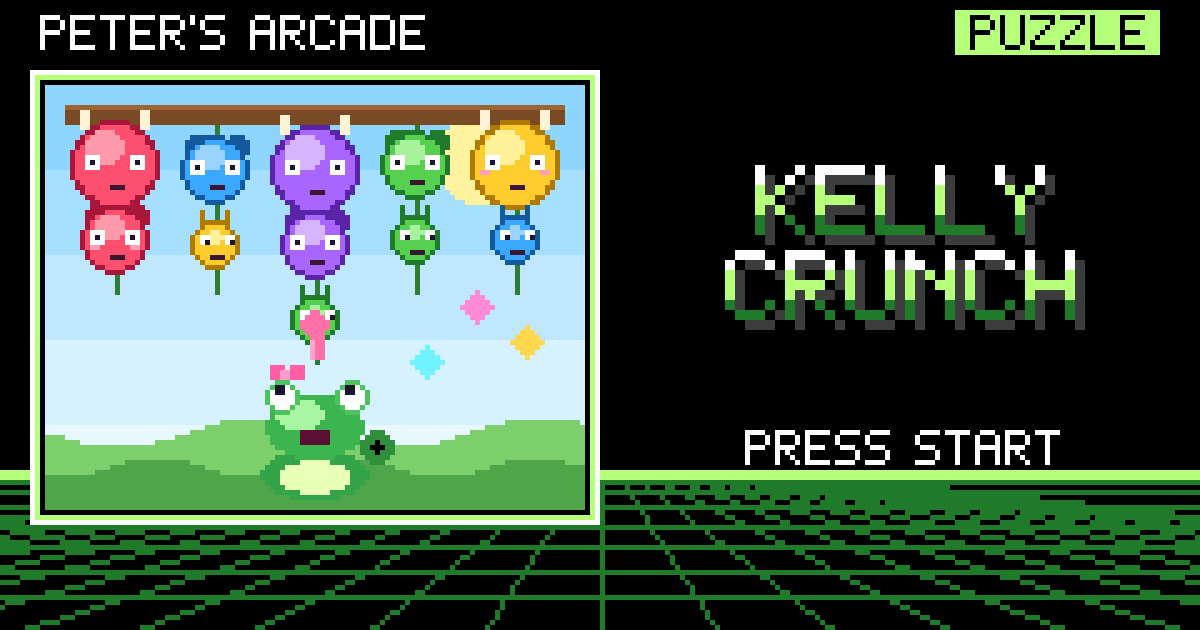
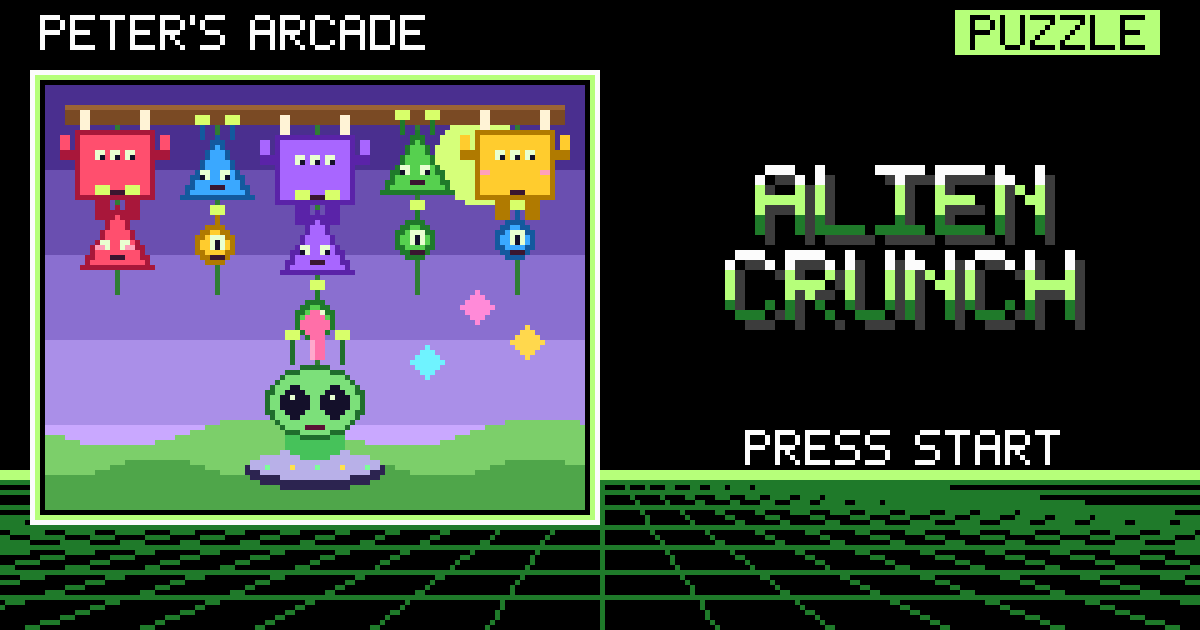
Alien Crunch: rename Kelly Crunch, alien creatures with distinct shapes per size, quieter music

Changed region(s): [[0.0308, 0.1206, 0.4933, 0.8143], [0.6167, 0.2413, 0.8942, 0.3921]]

diff --git a/index.html b/index.html
@@ -1,7 +1,7 @@
 <!DOCTYPE html><html lang="en"><head><meta charset="utf-8"><meta name="viewport" content="width=device-width,initial-scale=1,maximum-scale=1,user-scalable=no,viewport-fit=cover">
-<title>Kelly Crunch</title><!--og--><meta name="description" content="Help Kelly the chameleon feed little critters to bigger ones until they POP! Chain reactions, food chains, bombs, spiky critters and gem rocks. Endless mode + 30 puzzles."><meta property="og:type" content="website"><meta property="og:site_name" content="Peter&#x27;s Arcade"><meta property="og:title" content="Kelly Crunch"><meta property="og:description" content="Help Kelly the chameleon feed little critters to bigger ones until they POP! Chain reactions, food chains, bombs, spiky critters and gem rocks. Endless mode + 30 puzzles."><meta property="og:url" content="https://ploug76.github.io/kelly-crunch/"><meta property="og:image" content="https://ploug76.github.io/kelly-crunch/cover.png"><meta property="og:image:secure_url" content="https://ploug76.github.io/kelly-crunch/cover.png"><meta property="og:image:type" content="image/png"><meta property="og:image:width" content="1200"><meta property="og:image:height" content="630"><meta property="og:image:alt" content="Kelly Crunch 8-bit game box cover"><meta name="twitter:card" content="summary_large_image"><meta name="twitter:title" content="Kelly Crunch"><meta name="twitter:description" content="Help Kelly the chameleon feed little critters to bigger ones until they POP! Chain reactions, food chains, bombs, spiky critters and gem rocks. Endless mode + 30 puzzles."><meta name="twitter:image" content="https://ploug76.github.io/kelly-crunch/cover.png"><!--/og-->
+<title>Alien Crunch</title><!--og--><meta name="description" content="Pilot your little UFO alien and feed small aliens to bigger ones until they POP! Chain reactions, food chains, bombs, spiky critters and gem rocks. Endless mode + 30 puzzles."><meta property="og:type" content="website"><meta property="og:site_name" content="Peter&#x27;s Arcade"><meta property="og:title" content="Alien Crunch"><meta property="og:description" content="Pilot your little UFO alien and feed small aliens to bigger ones until they POP! Chain reactions, food chains, bombs, spiky critters and gem rocks. Endless mode + 30 puzzles."><meta property="og:url" content="https://ploug76.github.io/kelly-crunch/"><meta property="og:image" content="https://ploug76.github.io/kelly-crunch/cover.png"><meta property="og:image:secure_url" content="https://ploug76.github.io/kelly-crunch/cover.png"><meta property="og:image:type" content="image/png"><meta property="og:image:width" content="1200"><meta property="og:image:height" content="630"><meta property="og:image:alt" content="Alien Crunch 8-bit game box cover"><meta name="twitter:card" content="summary_large_image"><meta name="twitter:title" content="Alien Crunch"><meta name="twitter:description" content="Pilot your little UFO alien and feed small aliens to bigger ones until they POP! Chain reactions, food chains, bombs, spiky critters and gem rocks. Endless mode + 30 puzzles."><meta name="twitter:image" content="https://ploug76.github.io/kelly-crunch/cover.png"><!--/og-->
 <meta name="theme-color" content="#2fae4a"><link rel="manifest" href="manifest.json"><link rel="icon" href="icon-192.png"><link rel="apple-touch-icon" href="icon-192.png">
-<meta name="apple-mobile-web-app-capable" content="yes"><meta name="mobile-web-app-capable" content="yes"><meta name="apple-mobile-web-app-status-bar-style" content="black-translucent"><meta name="apple-mobile-web-app-title" content="Kelly Crunch">
+<meta name="apple-mobile-web-app-capable" content="yes"><meta name="mobile-web-app-capable" content="yes"><meta name="apple-mobile-web-app-status-bar-style" content="black-translucent"><meta name="apple-mobile-web-app-title" content="Alien Crunch">
 <style>html,body{margin:0;height:100%;overflow:hidden;background:#1d1240;touch-action:none;-webkit-user-select:none;user-select:none;-webkit-touch-callout:none;overscroll-behavior:none}
 canvas{position:fixed;left:0;top:0;display:block;touch-action:none}#sp{position:fixed;visibility:hidden;pointer-events:none;padding:env(safe-area-inset-top) env(safe-area-inset-right) env(safe-area-inset-bottom) env(safe-area-inset-left)}</style><!--sample--><script>(()=>{try{const R=location.pathname.split('/')[1]||'',K='pa_sample:'+R,q=new URLSearchParams(location.search),v=q.get('sample');
 if(v==='0'||(!v&&/\/peters-arcade\//.test(document.referrer)))sessionStorage.removeItem(K);
@@ -10,7 +10,7 @@ const s=sessionStorage.getItem(K);window.__SAMPLE=s||null;if(!s)return;
 document.querySelectorAll('link[rel=manifest]').forEach(l=>l.remove());
 if('serviceWorker' in navigator){try{navigator.serviceWorker.register=()=>new Promise(()=>{})}catch(e){}}
 addEventListener('beforeinstallprompt',e=>{e.preventDefault();e.stopImmediatePropagation()},true)}catch(e){}})()</script><!--/sample--></head><body>
-<canvas id="cv" aria-label="Kelly Crunch game"></canvas><div id="sp"></div>
+<canvas id="cv" aria-label="Alien Crunch game"></canvas><div id="sp"></div>
 <script>window.addEventListener('error',e=>{(window.__ERR=window.__ERR||[]).push(String(e.message))});
 // ===== Kelly Crunch rules engine (shared by game, solver, tests) =====
 // Board: array of columns; each column is an array top->bottom of cells.
@@ -107,7 +107,7 @@ const AU={ctx:null,m:null,sg:null,mg:null,nb:null,
   this.m=c.createGain();this.m.connect(c.destination);this.sg=c.createGain();this.sg.connect(this.m);this.mg=c.createGain();this.mg.connect(this.m);
   const comp=c.createDynamicsCompressor();this.m.disconnect();this.m.connect(comp);comp.connect(c.destination);
   const n=c.createBuffer(1,c.sampleRate*1,c.sampleRate),d=n.getChannelData(0);for(let i=0;i<d.length;i++)d[i]=Math.random()*2-1;this.nb=n;this.apply()}catch(e){this.ctx=null}},
- apply(){if(!this.ctx)return;const t=this.ctx.currentTime;this.m.gain.setTargetAtTime(save.muted?0:1,t,.02);this.sg.gain.setTargetAtTime(save.sfx?.75:0,t,.02);this.mg.gain.setTargetAtTime(save.music&&!paused?.30:0,t,.05)},
+ apply(){if(!this.ctx)return;const t=this.ctx.currentTime;this.m.gain.setTargetAtTime(save.muted?0:1,t,.02);this.sg.gain.setTargetAtTime(save.sfx?.75:0,t,.02);this.mg.gain.setTargetAtTime(save.music&&!paused?.14:0,t,.05)},
  unlock(){this.init();if(this.ctx&&this.ctx.state!=='running'&&!hidden)this.ctx.resume().catch(()=>{})},
  tone(f,d,type='square',v=.2,f2=null,dl=0,dest=null){const c=this.ctx;if(!c)return;const t=c.currentTime+dl,o=c.createOscillator(),g=c.createGain();o.type=type;o.frequency.setValueAtTime(f,t);if(f2)o.frequency.exponentialRampToValueAtTime(Math.max(20,f2),t+d);
   g.gain.setValueAtTime(0.0001,t);g.gain.exponentialRampToValueAtTime(v,t+.006);g.gain.exponentialRampToValueAtTime(.0001,t+d);o.connect(g);g.connect(dest||this.sg);o.start(t);o.stop(t+d+.03)},
@@ -161,9 +161,9 @@ const MUS={step:0,next:0,bpm:116,on:false,track:'play',
 const COLORS=[{n:'Berry',b:'#ff4f6e',l:'#ff9aac',d:'#a8173a'},{n:'Sky',b:'#3aa8ff',l:'#9ad3ff',d:'#13599e'},{n:'Lime',b:'#56d04f',l:'#a8f29c',d:'#1f7a2a'},{n:'Sunny',b:'#ffcc2e',l:'#fff09a',d:'#b07a00'},{n:'Grape',b:'#a866ff',l:'#d6b4ff',d:'#5a23a8'}];
 const SIZES=['Nibbler','Muncher','Chomper'];
 const MAXR_E=10,MAXR_P=9,NC_E=7;
-const COMBO_WORDS=['','Crunchy!','Double Crunch!','Triple Crunch!','Super Crunch!','Mega Munch!','Ultra Munch!','KELLY CRUNCH!!'];
+const COMBO_WORDS=['','Crunchy!','Double Crunch!','Triple Crunch!','Super Crunch!','Mega Munch!','Ultra Munch!','ALIEN CRUNCH!!'];
 const PUZ=PUZZLES; // generated + verified by solver (see build)
-const TIPS={0:'Swipe to move Kelly. Tap to grab the bottom critter, tap again to spit it!',1:'Feed a smaller critter to the next size up: Nibbler ➜ Muncher ➜ Chomper.',2:'A critter that has eaten is FULL (puffy cheeks). Feed it again and it POPS!',3:'Feed a FULL critter to a bigger one for a Food Chain pop!',4:'Pops spread to touching critters of the same size AND color.',10:'BOMBS eat any critter. Feed a bomb twice to blast everything around it!',15:'Never grab SPIKY critters! Pop something next to them to clear them.',20:'Gem rocks can’t be grabbed. Pop a critter beside one for a gem shower!'};
+const TIPS={0:'Swipe to move your alien. Tap to grab the bottom critter, tap again to spit it!',1:'Feed a smaller critter to the next size up: Blob ➜ Triangle ➜ Horned brute.',2:'A critter that has eaten is FULL (puffy cheeks). Feed it again and it POPS!',3:'Feed a FULL critter to a bigger one for a Food Chain pop!',4:'Pops spread to touching critters of the same size AND color.',10:'BOMBS eat any critter. Feed a bomb twice to blast everything around it!',15:'Never grab SPIKY critters! Pop something next to them to clear them.',20:'Gem rocks can’t be grabbed. Pop a critter beside one for a gem shower!'};
 let V=new Map(); // visual state per cell id
 function newVis(cell,x,y){const v={x,y,vx:0,vy:0,sx:1,sy:1,svx:0,svy:0,ph:Math.random()*6.28,open:0,blink:rand(1,4),look:0,shiver:0,eaten:null,bump:0};V.set(cell.id,v);return v}
 function geo(){const s=SB();const NC=G.NC,MAXR=G.MAXR;const tip=G.mode==='puzzle'?44:0;const top=s.t+122+tip;const bottomPad=106;
@@ -172,7 +172,7 @@ function geo(){const s=SB();const NC=G.NC,MAXR=G.MAXR;const tip=G.mode==='puzzle
  return{x0,colW,top,rowH,dangerY,base,kY:Math.min(s.b-14,dangerY+bottomPad-6),s,tip}}
 let GE=null;
 const colX=c=>GE.x0+GE.colW*(c+.5),rowY=r=>GE.top+GE.rowH*(r+.5);
-const radius=cell=>cell.k==='c'?GE.base*[.30,.39,.48][cell.s]:GE.base*.40;
+const radius=cell=>cell.k==='c'?GE.base*[.23,.36,.47][cell.s]:GE.base*.40;
 function startGame(mode,pi=0){AU.unlock();V=new Map();parts.length=0;gems.length=0;labels.length=0;
  G={mode,pi,NC:NC_E,MAXR:MAXR_E,B:[],kelly:{col:3,x:0,vx:0,stun:0,mouth:0,emo:'',emoT:0,squash:0,bob:0,look:0,blinkT:2,hop:0},hold:null,tg:null,flights:[],res:null,queue:[],
   score:0,shown:0,level:1,gemsN:0,need:25,pushT:0,burps:1,chainMax:0,popped:0,moves:0,limit:0,par:0,undo:[],t:0,panel:null,panelT:0,shake:0,hitstop:0,hint:null,warnT:0,danger:0,newBest:false,ann:null,tipT:0,overT:0,lastPush:0,clearBonus:0};
@@ -327,21 +327,39 @@ function eyes(R,ex,ey,er,v,kind){const K=G?G.kelly:null;const look=K?clamp((K.x-
   if(bl){X.strokeStyle='#222';X.lineWidth=er*.28;X.beginPath();X.moveTo(x-er*.7,y);X.quadraticCurveTo(x,y+er*.5,x+er*.7,y);X.stroke();continue}
   const px=x+look*er*.38,py=y+er*.32;X.fillStyle='#1d1530';X.beginPath();X.arc(px,py,er*.52,0,6.283);X.fill();X.fillStyle='#fff';X.beginPath();X.arc(px-er*.18,py-er*.2,er*.18,0,6.283);X.fill()}
  if(kind==='angry'){X.strokeStyle='#2a1c38';X.lineWidth=er*.35;X.lineCap='round';X.beginPath();X.moveTo(-ex-er*.8,ey-er*1.2);X.lineTo(-ex+er*.7,ey-er*.6);X.moveTo(ex+er*.8,ey-er*1.2);X.lineTo(ex-er*.7,ey-er*.6);X.stroke()}}
+function alienEyes(P,er,v,kind){const K=G?G.kelly:null;const look=K?clamp((K.x-v.x)/160,-1,1):Math.sin(RT+v.ph)*.6;const bl=v.blink<.12;
+ for(const [x,y] of P){X.fillStyle='#e9ffd0';X.beginPath();X.ellipse(x,y,er*1.05,er*1.2,0,0,6.283);X.fill();X.strokeStyle='rgba(0,0,0,.6)';X.lineWidth=Math.max(1,er*.14);X.stroke();
+  if(bl){X.strokeStyle='#222';X.lineWidth=er*.28;X.beginPath();X.moveTo(x-er*.7,y);X.quadraticCurveTo(x,y+er*.5,x+er*.7,y);X.stroke();continue}
+  const px=x+look*er*.3,py=y+er*.2;X.fillStyle='#14102a';X.beginPath();X.ellipse(px,py,er*.62,er*.8,0,0,6.283);X.fill();X.fillStyle='#7dff9a';X.beginPath();X.ellipse(px,py,er*.18,er*.5,0,0,6.283);X.fill();X.fillStyle='#fff';X.beginPath();X.arc(px-er*.25,py-er*.35,er*.18,0,6.283);X.fill()}
+ if(kind==='angry'){X.strokeStyle='#2a1c38';X.lineWidth=er*.35;X.lineCap='round';const a=P[0],b=P[P.length-1];X.beginPath();X.moveTo(a[0]-er*.9,a[1]-er*1.5);X.lineTo(a[0]+er*.6,a[1]-er*1.0);X.moveTo(b[0]+er*.9,b[1]-er*1.5);X.lineTo(b[0]-er*.6,b[1]-er*1.0);X.stroke()}}
 function drawCritter(cell,x,y,R,v,alpha=1){X.save();X.translate(x,y);const wob=cell.f?Math.sin(RT*9+v.ph)*.05:0;X.scale(v.sx*(1+wob),v.sy*(1-wob));if(alpha<1)X.globalAlpha=alpha;
  const lw=Math.max(1.8,R*.09);
  if(cell.k==='c'){const C=COLORS[cell.c],s=cell.s,full=cell.f;const RR=R*(full?1.08:1);
-  // ears / horns / antennae
-  X.lineWidth=lw;X.strokeStyle=C.d;
-  if(s===0){X.lineCap='round';for(const sx of [-1,1]){X.beginPath();X.moveTo(sx*RR*.3,-RR*.8);X.quadraticCurveTo(sx*RR*.5,-RR*1.4,sx*RR*.75+Math.sin(RT*4+v.ph)*2,-RR*1.45);X.stroke();X.fillStyle=C.l;X.beginPath();X.arc(sx*RR*.75+Math.sin(RT*4+v.ph)*2,-RR*1.45,RR*.18,0,6.283);X.fill();X.stroke()}}
-  else if(s===1){for(const sx of [-1,1]){X.fillStyle=C.b;X.beginPath();X.arc(sx*RR*.68,-RR*.68,RR*.3,0,6.283);X.fill();X.stroke();X.fillStyle=C.l;X.beginPath();X.arc(sx*RR*.68,-RR*.68,RR*.15,0,6.283);X.fill()}}
-  else{for(const sx of [-1,1]){X.fillStyle='#fff3d6';X.beginPath();X.moveTo(sx*RR*.35,-RR*.82);X.quadraticCurveTo(sx*RR*.95,-RR*1.0,sx*RR*.92,-RR*1.42);X.quadraticCurveTo(sx*RR*.7,-RR*1.0,sx*RR*.62,-RR*.62);X.closePath();X.fill();X.strokeStyle='#8a6a3a';X.stroke()}}
+  // ALIEN bodies: size 0 = round blob (1 eye, 1 antenna), 1 = TRIANGLE (2 eyes, 2 antennae), 2 = big brute with ARMS, LEGS, HORNS (3 eyes)
+  X.lineWidth=lw;X.strokeStyle=C.d;X.lineCap='round';
+  const glow=(x,y,r)=>{X.fillStyle='rgba(200,255,120,.45)';X.beginPath();X.arc(x,y,r*1.9,0,6.283);X.fill();X.fillStyle='#d8ff6a';X.beginPath();X.arc(x,y,r,0,6.283);X.fill();X.strokeStyle=C.d;X.stroke()};
+  const wv=Math.sin(RT*4+v.ph)*RR*.08;
+  if(s===0){X.beginPath();X.moveTo(0,-RR*.9);X.quadraticCurveTo(RR*.25,-RR*1.3,wv,-RR*1.5);X.stroke();glow(wv,-RR*1.5,RR*.2)}
+  else if(s===1){for(const sx of [-1,1]){X.strokeStyle=C.d;X.beginPath();X.moveTo(sx*RR*.12,-RR*.95);X.quadraticCurveTo(sx*RR*.3,-RR*1.4,sx*RR*.55+wv,-RR*1.45);X.stroke();glow(sx*RR*.55+wv,-RR*1.45,RR*.15)}}
+  else{// legs
+   X.fillStyle=C.d;for(const sx of [-1,1]){rr(sx*RR*.5-RR*.17,RR*.6,RR*.34,RR*.5,RR*.12);X.fill();X.beginPath();X.ellipse(sx*RR*.5,RR*1.08,RR*.26,RR*.12,0,0,6.283);X.fill()}
+   // arms (waving)
+   for(const sx of [-1,1]){const a=Math.sin(RT*5+v.ph+sx)*.35;X.strokeStyle=C.d;X.lineWidth=RR*.2;X.beginPath();X.moveTo(sx*RR*.75,RR*.05);X.quadraticCurveTo(sx*RR*1.15,RR*(-.1+a*.3),sx*RR*1.12,RR*(-.45+a*.4));X.stroke();
+    X.fillStyle=C.b;X.beginPath();X.arc(sx*RR*1.12,RR*(-.5+a*.4),RR*.16,0,6.283);X.fill();X.lineWidth=lw;X.stroke()}
+   // horns
+   for(const sx of [-1,1]){X.fillStyle='#fff3d6';X.beginPath();X.moveTo(sx*RR*.3,-RR*.72);X.quadraticCurveTo(sx*RR*.95,-RR*.95,sx*RR*.9,-RR*1.4);X.quadraticCurveTo(sx*RR*.65,-RR*1.0,sx*RR*.62,-RR*.55);X.closePath();X.fill();X.strokeStyle='#8a6a3a';X.lineWidth=lw;X.stroke()}}
   // body
   const gr=X.createRadialGradient(-RR*.35,-RR*.4,RR*.1,0,0,RR*1.1);gr.addColorStop(0,C.l);gr.addColorStop(.55,C.b);gr.addColorStop(1,C.d);
-  X.fillStyle=gr;fuzzPath(RR,[9,12,15][s],RR*[.10,.13,.14][s]);X.fill();X.strokeStyle=C.d;X.lineWidth=lw;X.stroke();
-  X.fillStyle='rgba(255,255,255,.28)';X.beginPath();X.ellipse(0,RR*.42,RR*.58,RR*.42,0,0,6.283);X.fill();
-  symbol(cell.c,0,RR*.64,RR*.15);
+  X.fillStyle=gr;X.beginPath();
+  if(s===0){X.arc(0,0,RR,0,6.283)}
+  else if(s===1){const P=[[0,-RR*1.12],[RR*1.08,RR*.82],[-RR*1.08,RR*.82]];const rad=RR*.22;X.moveTo((P[0][0]+P[2][0])/2,(P[0][1]+P[2][1])/2);for(let k=0;k<3;k++){const a=P[k],b=P[(k+1)%3];X.arcTo(a[0],a[1],b[0],b[1],rad)}X.closePath()}
+  else{rr(-RR*.88,-RR*.82,RR*1.76,RR*1.52,RR*.55)}
+  X.fill();X.strokeStyle=C.d;X.lineWidth=lw;X.stroke();
+  X.fillStyle='rgba(255,255,255,.22)';X.beginPath();X.ellipse(0,RR*(s===1?.5:.42),RR*(s===1?.5:.55),RR*.28,0,0,6.283);X.fill();
+  symbol(cell.c,s===1?0:0,s===0?RR*.66:s===1?-RR*.48:RR*.5,RR*(s===1?.13:.14));
+  if(s===2){X.fillStyle='rgba(0,0,0,.18)';for(const sx of [-1,1]){X.beginPath();X.arc(sx*RR*.55,RR*.35,RR*.07,0,6.283);X.fill()}}
   // face
-  const er=RR*[.27,.24,.21][s];eyes(RR,RR*[.33,.36,.38][s],-RR*.14,er,v,s===2&&!full?'angry':'');
+  if(s===1)X.translate(0,RR*.12);if(s===0)alienEyes([[0,-RR*.12]],RR*.42,v,'');else if(s===1)alienEyes([[-RR*.3,-RR*.12],[RR*.3,-RR*.12]],RR*.22,v,'');else alienEyes([[-RR*.42,-RR*.2],[0,-RR*.42],[RR*.42,-RR*.2]],RR*.19,v,full?'':'angry');
   const op=v.open;
   if(full){X.fillStyle='rgba(255,120,150,.55)';for(const sx of [-1,1]){X.beginPath();X.ellipse(sx*RR*.62,RR*.18,RR*.22,RR*.16,0,0,6.283);X.fill()}
    X.strokeStyle='#3a1630';X.lineWidth=lw*.9;X.lineCap='round';X.beginPath();X.moveTo(-RR*.22,RR*.3);X.quadraticCurveTo(-RR*.11,RR*.38,0,RR*.3);X.quadraticCurveTo(RR*.11,RR*.38,RR*.22,RR*.3);X.stroke();
@@ -365,26 +383,26 @@ function drawCritter(cell,x,y,R,v,alpha=1){X.save();X.translate(x,y);const wob=c
   const cols=['#6ff3ff','#ff8ad8','#b8ff7a'];[[-.35,-.1,.45],[.3,-.3,.38],[.05,.25,.32]].forEach(([a,b,s],i)=>{X.fillStyle=cols[i];X.beginPath();X.moveTo(a*R,(b-s)*R);X.lineTo((a+s*.6)*R,b*R);X.lineTo(a*R,(b+s)*R);X.lineTo((a-s*.6)*R,b*R);X.closePath();X.fill();X.fillStyle='rgba(255,255,255,.6)';X.beginPath();X.moveTo(a*R,(b-s)*R);X.lineTo((a+s*.3)*R,b*R);X.lineTo(a*R,b*R);X.closePath();X.fill()});
   const tw=(Math.sin(RT*3+v.ph)+1)/2;X.fillStyle=`rgba(255,255,255,${tw})`;starPath(R*.5,-R*.55,R*.22,R*.06,4);X.fill()}
  X.restore()}
-// ===================== Kelly the chameleon =====================
+// ===================== the player's alien (UFO pilot) =====================
 function drawKelly(x,y,sc){const K=G?G.kelly:{mouth:0,hop:0,squash:0,emo:'',blinkT:3,stun:0};X.save();const hop=Math.sin(K.hop*Math.PI)*8;X.translate(x,y-hop);X.scale(sc,sc);const sq=K.squash*.12;X.scale(1+sq,1-sq);
  const tgx=G&&G.tg?colX(G.tg.col):x,tgy=G&&G.tg?G.tg.ty:y-300;
- // tail
- X.strokeStyle='#2f8f3c';X.lineWidth=9;X.lineCap='round';X.beginPath();X.moveTo(20,-14);X.quadraticCurveTo(44,-8,42,-26);X.stroke();X.lineWidth=7;X.beginPath();X.arc(34,-28,8,0,5.2);X.stroke();X.strokeStyle='#5fd06a';X.lineWidth=4;X.beginPath();X.arc(34,-28,8,0,5.2);X.stroke();
- // feet
- X.fillStyle='#3da54a';for(const s of [-1,1]){X.beginPath();X.ellipse(s*15,-3,10,5,0,0,6.283);X.fill()}
- // body
- let gr=X.createRadialGradient(-8,-30,4,0,-20,32);gr.addColorStop(0,'#9cf09a');gr.addColorStop(1,'#33a447');X.fillStyle=gr;X.beginPath();X.ellipse(0,-20,26,19,0,0,6.283);X.fill();X.strokeStyle='#1f6e2c';X.lineWidth=2.5;X.stroke();
- X.fillStyle='#e8ffb8';X.beginPath();X.ellipse(0,-15,15,11,0,0,6.283);X.fill();
- X.strokeStyle='rgba(31,110,44,.5)';X.lineWidth=1.5;for(let i=-1;i<=1;i++){X.beginPath();X.moveTo(i*6-4,-22);X.lineTo(i*6+4,-22);X.stroke()}
- // head
- gr=X.createRadialGradient(-6,-56,4,0,-48,30);gr.addColorStop(0,'#a8f5a2');gr.addColorStop(1,'#3cb550');X.fillStyle=gr;X.beginPath();X.ellipse(0,-47,24,20,0,0,6.283);X.fill();X.strokeStyle='#1f6e2c';X.lineWidth=2.5;X.stroke();
- // crest
- X.fillStyle='#2f9a40';X.beginPath();X.moveTo(-10,-64);X.quadraticCurveTo(0,-80,10,-64);X.closePath();X.fill();
- // bow
- X.fillStyle='#ff5fa2';X.beginPath();X.moveTo(-10,-66);X.lineTo(-22,-76);X.lineTo(-21,-60);X.closePath();X.fill();X.beginPath();X.moveTo(-10,-66);X.lineTo(1,-77);X.lineTo(0,-61);X.closePath();X.fill();X.fillStyle='#ff9ccb';X.beginPath();X.arc(-10,-67,4,0,6.283);X.fill();
+ // UFO saucer base
+ X.fillStyle='rgba(180,255,140,.25)';X.beginPath();X.moveTo(-16,-6);X.lineTo(16,-6);X.lineTo(26,10);X.lineTo(-26,10);X.closePath();X.fill();
+ let gr=X.createLinearGradient(0,-26,0,-2);gr.addColorStop(0,'#e4e0ff');gr.addColorStop(1,'#6a5f9e');X.fillStyle=gr;X.beginPath();X.ellipse(0,-13,40,11,0,0,6.283);X.fill();X.strokeStyle='#2c2450';X.lineWidth=2.5;X.stroke();
+ for(let i=-3;i<=3;i++){X.fillStyle=(Math.floor(RT*6)+i)%2?'#7dff9a':'#ffe14d';X.beginPath();X.arc(i*10,-11+Math.abs(i)*.6,2.6,0,6.283);X.fill()}
+ // little alien body
+ gr=X.createRadialGradient(-6,-30,3,0,-24,22);gr.addColorStop(0,'#c8ffa8');gr.addColorStop(1,'#46c25a');X.fillStyle=gr;X.beginPath();X.ellipse(0,-24,15,10,0,0,6.283);X.fill();X.strokeStyle='#1f6e2c';X.lineWidth=2;X.stroke();
+ // head (big alien dome head)
+ gr=X.createRadialGradient(-6,-58,4,0,-48,30);gr.addColorStop(0,'#d2ffb4');gr.addColorStop(1,'#46c25a');X.fillStyle=gr;X.beginPath();X.ellipse(0,-49,25,21,0,0,6.283);X.fill();X.strokeStyle='#1f6e2c';X.lineWidth=2.5;X.stroke();
+ // antennae with glowing tips
+ for(const s of [-1,1]){const wv=Math.sin(RT*4+s)*2;X.strokeStyle='#1f6e2c';X.lineWidth=3;X.lineCap='round';X.beginPath();X.moveTo(s*8,-67);X.quadraticCurveTo(s*12,-80,s*18+wv,-86);X.stroke();
+  X.fillStyle='rgba(216,255,106,.45)';X.beginPath();X.arc(s*18+wv,-86,9,0,6.283);X.fill();X.fillStyle='#d8ff6a';X.beginPath();X.arc(s*18+wv,-86,5,0,6.283);X.fill();X.strokeStyle='#1f6e2c';X.lineWidth=1.5;X.stroke()}
+ // glass dome
+ X.fillStyle='rgba(190,230,255,.16)';X.beginPath();X.ellipse(0,-44,36,46,0,Math.PI,0);X.lineTo(36,-16);X.lineTo(-36,-16);X.closePath();X.fill();X.strokeStyle='rgba(220,240,255,.55)';X.lineWidth=2;X.stroke();
+ X.strokeStyle='rgba(255,255,255,.5)';X.lineWidth=3;X.beginPath();X.arc(0,-44,30,Math.PI*1.15,Math.PI*1.4);X.stroke();
  // eye turrets
  const lx=clamp((tgx-x)/120,-1,1),ly=-.7;
- for(const s of [-1,1]){const ex=s*16,ey=-52;X.fillStyle='#4cc45c';X.beginPath();X.arc(ex,ey,11,0,6.283);X.fill();X.strokeStyle='#1f6e2c';X.lineWidth=2;X.stroke();X.fillStyle='#fff';X.beginPath();X.arc(ex,ey,7.5,0,6.283);X.fill();
+ for(const s of [-1,1]){const ex=s*12,ey=-52;X.fillStyle='#14102a';X.beginPath();X.ellipse(ex,ey,9,11.5,s*-.45,0,6.283);X.fill();X.fillStyle='#e9ffd0';X.beginPath();X.ellipse(ex,ey,7,9,s*-.45,0,6.283);X.fill();
   if(K.emo==='ouch'||K.stun>0){X.strokeStyle='#222';X.lineWidth=2;X.beginPath();X.moveTo(ex-4,ey-4);X.lineTo(ex+4,ey+4);X.moveTo(ex+4,ey-4);X.lineTo(ex-4,ey+4);X.stroke()}
   else if(K.emo==='happy'){X.strokeStyle='#222';X.lineWidth=2.5;X.beginPath();X.arc(ex,ey+2,4,Math.PI*1.1,Math.PI*1.9);X.stroke()}
   else if(K.blinkT<.12){X.strokeStyle='#222';X.lineWidth=2.5;X.beginPath();X.moveTo(ex-5,ey);X.lineTo(ex+5,ey);X.stroke()}
@@ -405,7 +423,7 @@ function drawTongue(){const tg=G.tg;if(!tg)return;const K=G.kelly,sc=kSc();const
 const kSc=()=>clamp(GE.base/52,.8,1.12);
 // ===================== backgrounds =====================
 let bgCache=null,bgKey='';
-const BIOMES=[{n:'Garden',sky:['#8fd6ff','#e8f8ff'],h:['#7ccf6a','#4fa64a'],sun:'#fff3a0'},{n:'Swamp',sky:['#4d8f86','#b9e3c8'],h:['#3c7a52','#26573a'],sun:'#e8ffcf'},{n:'Canyon',sky:['#ff9a6b','#ffd9a0'],h:['#c86a43','#9a4630'],sun:'#fff0c0'},{n:'Crystal Cave',sky:['#2a1f4f','#5a3f8f'],h:['#3b2c6a','#251a48'],sun:null},{n:'Starry Night',sky:['#0d1640','#2b3a7a'],h:['#1c2a5a','#121c40'],sun:'#f4f0ff'}];
+const BIOMES=[{n:'Alien Meadow',sky:['#4a2f8f','#c9a8ff'],h:['#5fd06a','#2f8f3c'],sun:'#d6ff7a'},{n:'Swamp',sky:['#4d8f86','#b9e3c8'],h:['#3c7a52','#26573a'],sun:'#e8ffcf'},{n:'Canyon',sky:['#ff9a6b','#ffd9a0'],h:['#c86a43','#9a4630'],sun:'#fff0c0'},{n:'Crystal Cave',sky:['#2a1f4f','#5a3f8f'],h:['#3b2c6a','#251a48'],sun:null},{n:'Starry Night',sky:['#0d1640','#2b3a7a'],h:['#1c2a5a','#121c40'],sun:'#f4f0ff'}];
 function biome(){if(!G)return 0;return G.mode==='puzzle'?Math.floor(G.pi/5)%5:Math.floor((G.level-1)/2)%5}
 function drawBG(){const bi=state==='play'&&G?biome():0;const k=VW+'x'+VH+'_'+bi;if(!bgCache||bgKey!==k){bgKey=k;bgCache=document.createElement('canvas');bgCache.width=CV.width;bgCache.height=CV.height;const c=bgCache.getContext('2d');const B=BIOMES[bi];const W=bgCache.width,H=bgCache.height;
   let g=c.createLinearGradient(0,0,0,H);g.addColorStop(0,B.sky[0]);g.addColorStop(1,B.sky[1]);c.fillStyle=g;c.fillRect(0,0,W,H);
@@ -514,7 +532,7 @@ function drawPanel(){const s=GE.s,P=G.panel;
   button('sfx',bx+bw/2+5,y,bw/2-5,46,save.sfx?'🔊 Sounds On':'🔈 Sounds Off',()=>{save.sfx=!save.sfx;persist();AU.apply()},{col:save.sfx?['#8fd6ff','#3a8fe0']:['#9a9aa8','#6c6c7a'],px:15});y+=56;
   button('howp',bx,y,bw,46,'❓ How to Play',()=>{howFrom='pause';howPage=0;state='howto'},{col:['#ffe48a','#f0a020']});y+=56;
   button('quit',bx,y,bw,46,'⌂ Main Menu',()=>{paused=false;toTitle()},{col:['#ff9ad0','#d4479a']});return}
- if(P==='over'){const p=panelBox('over',s,372,'Kelly got swamped!');let y=p.ty+4;const bx=p.x+24,bw=p.w-48;
+ if(P==='over'){const p=panelBox('over',s,372,'Swamped by aliens!');let y=p.ty+4;const bx=p.x+24,bw=p.w-48;
   infoLine('i1',bx,y,bw,'Score',G.score.toLocaleString(),'#ffe14d');y+=28;infoLine('i2',bx,y,bw,'Best',save.best.toLocaleString());y+=28;infoLine('i3',bx,y,bw,'Level reached',G.level+'');y+=28;infoLine('i4',bx,y,bw,'Best combo','×'+G.chainMax);y+=28;infoLine('i5',bx,y,bw,'Critters popped',G.popped+'');y+=34;
   if(G.newBest){reg('nb',bx,y-6,bw,22);outlined('★ NEW BEST SCORE! ★',bx+bw/2,y+5,16,'#ff9ad0','#3a1050',4);y+=24}
   button('again',bx,y,bw,50,'▶ Play Again',()=>startGame('endless'),{col:['#b6ff7a','#46b04a']});y+=60;button('menu',bx,y,bw,44,'⌂ Main Menu',toTitle,{col:['#ff9ad0','#d4479a']});return}
@@ -530,7 +548,7 @@ function drawPanel(){const s=GE.s,P=G.panel;
 let titleT=0,howPage=0,howFrom='title';const demo={tg:0,col:2};
 const fakeV=(ph=0,x=0)=>({sx:1,sy:1,open:0,blink:5,ph,x});
 function toTitle(){state='title';G=null;paused=false;MUS.track='title';AU.apply()}
-function logo(cx,y,sz){const word=['KELLY','CRUNCH'];word.forEach((w,li)=>{let px=sz*(li?1:.82);X.font=FONT(px);const tw=X.measureText(w).width;let x=cx-tw/2;for(let i=0;i<w.length;i++){const ch=w[i],cw=X.measureText(ch).width;const bob=Math.sin(RT*3+i*.7+li)*3;
+function logo(cx,y,sz){const word=['ALIEN','CRUNCH'];word.forEach((w,li)=>{let px=sz*(li?1:.82);X.font=FONT(px);const tw=X.measureText(w).width;let x=cx-tw/2;for(let i=0;i<w.length;i++){const ch=w[i],cw=X.measureText(ch).width;const bob=Math.sin(RT*3+i*.7+li)*3;
   const g=X.createLinearGradient(0,y+li*sz*.95-px/2,0,y+li*sz*.95+px/2);g.addColorStop(0,li?'#fff3a0':'#c6ffb0');g.addColorStop(1,li?'#ff7a2e':'#2fae4a');X.save();X.translate(x+cw/2,y+li*sz*.95+bob);X.rotate(Math.sin(RT*2+i)*.05);outlined(ch,0,0,px,g,'#2a1240',9);X.restore();x+=cw}})}
 function drawTitle(){const s=SB();menuBtns=[];
  const reserveH=50/SC; // top-left dock area (CSS px) kept free
@@ -540,7 +558,7 @@ function drawTitle(){const s=SB();menuBtns=[];
  if(midH>110){const cx=(s.l+s.r)/2;const cols=5,cw=Math.min(60,(s.r-s.l-40)/cols);const x0=cx-cw*cols/2;const yv=mid+12;X.fillStyle='#7a4a24';rr(x0-8,yv-8,cw*cols+16,10,5);X.fill();
   const demoCells=[[{k:'c',s:2,c:0,f:0},{k:'c',s:1,c:0,f:1}],[{k:'c',s:1,c:1,f:0},{k:'c',s:0,c:3,f:0}],[{k:'c',s:2,c:4,f:0},{k:'b',n:1}],[{k:'c',s:1,c:2,f:0},{k:'c',s:0,c:2,f:0}],[{k:'c',s:2,c:3,f:1},{k:'x'}]];
   const rh=Math.min(50,(midH-90)/2.4);const baseR=Math.min(cw,rh);GE=GE||{base:baseR};const oldGE=GE;GE={base:baseR,x0,colW:cw,top:yv,rowH:rh,dangerY:yv+rh*2.5,kY:by-12,s};
-  demoCells.forEach((col,c)=>col.forEach((cell,r)=>{const x=x0+cw*(c+.5),y=yv+rh*(r+.6)+Math.sin(RT*2+c)*2;X.strokeStyle='#2f7d33';X.lineWidth=3;X.beginPath();X.moveTo(x,yv);X.lineTo(x,y);X.stroke();drawCritter(cell,x,y,cell.k==='c'?baseR*[.3,.39,.48][cell.s]:baseR*.4,fakeV(c*1.3+r,x))}));
+  demoCells.forEach((col,c)=>col.forEach((cell,r)=>{const x=x0+cw*(c+.5),y=yv+rh*(r+.6)+Math.sin(RT*2+c)*2;X.strokeStyle='#2f7d33';X.lineWidth=3;X.beginPath();X.moveTo(x,yv);X.lineTo(x,y);X.stroke();drawCritter(cell,x,y,cell.k==='c'?baseR*[.23,.36,.47][cell.s]:baseR*.4,fakeV(c*1.3+r,x))}));
   const kx=x0+cw*(2.5+Math.sin(RT*.9)*1.6);drawKelly(kx,Math.min(by-12,yv+rh*2.5+90),clamp(baseR/52,.8,1.1));GE=oldGE}
  const bw=Math.min(280,s.r-s.l-40),bx=(s.l+s.r)/2-bw/2;
  button('endless',bx,by,bw,bh,'▶ Endless',()=>startGame('endless'),{col:['#b6ff7a','#46b04a'],sub:'Best '+(save.best||0).toLocaleString()+(save.bestCombo?'  ·  Best combo ×'+save.bestCombo:'')});
@@ -555,8 +573,8 @@ function drawLevels(){const s=SB();menuBtns=[];button('back',s.l+8,s.t+6,90,40,'
  const cols=5,gap=10;const cw=Math.min(66,(s.r-s.l-24-gap*4)/cols);const rows=Math.ceil(PUZ.length/cols);const ch=Math.min(cw,(s.b-s.t-80-gap*(rows-1))/rows);const x0=(s.l+s.r)/2-(cw*cols+gap*4)/2,y0=s.t+62;const un=lockedUpTo();
  for(let i=0;i<PUZ.length;i++){const c=i%cols,r=Math.floor(i/cols);const x=x0+c*(cw+gap),y=y0+r*(ch+gap);const lock=i>=un;const st=save.stars[i]||0;const tier=Math.floor(i/5);const tc=[['#b6ff7a','#46b04a'],['#8fd6ff','#3a8fe0'],['#ffd84d','#ff9f1c'],['#d6b4ff','#8a4ae0'],['#ff9ad0','#d4479a'],['#ffb07a','#e0602e']][tier%6];
   button('lv'+i,x,y,cw,ch,lock?'🔒':''+(i+1),()=>{if(!lock)startGame('puzzle',i)},{dis:lock,col:tc,r:14,px:Math.min(22,ch*.36),icon:lock?null:(bx,byy)=>{outlined(''+(i+1),bx,byy-ch*.1,Math.min(22,ch*.36),'#fff','#3a1a4a',4);X.font=FONT(Math.min(13,ch*.22));X.textAlign='center';X.fillStyle=st?'#fff6a0':'rgba(40,20,60,.5)';X.fillText('★'.repeat(st)+'☆'.repeat(3-st),bx,byy+ch*.26)}})}}
-const HOW=[{t:'Meet Kelly!',d:'Swipe left or right to move Kelly between columns. Tap anywhere to shoot her tongue up and grab the bottom critter. Tap again to spit it into the column above her. (Keyboard: ← → move, Space shoots.)',art:'kelly'},
- {t:'Feed the Food Chain',d:'Nibblers feed Munchers, and Munchers feed Chompers. Spit the wrong size and it just sticks on the bottom of the column.',art:'sizes'},
+const HOW=[{t:'Meet Your Alien!',d:'Swipe left or right to move your alien between columns. Tap anywhere to shoot its tongue up and grab the bottom critter. Tap again to spit it into the column above it. (Keyboard: ← → move, Space shoots.)',art:'kelly'},
+ {t:'Feed the Food Chain',d:'Round Nibblers feed triangle Munchers, and Munchers feed horned Chompers. Spit the wrong size and it just sticks on the bottom of the column.',art:'sizes'},
  {t:'Full Critters Pop',d:'A critter that has eaten gets puffy cheeks: it is FULL. Feed it once more, or feed it to a bigger critter, and it POPS!',art:'full'},
  {t:'Chain Reactions',d:'A pop spreads to touching critters of the same size AND color. Critters below climb up, and if they climb into a bigger critter it eats them. That’s a combo!',art:'chain'},
  {t:'Special Critters',d:'BOMB: eats any critter; feed it twice to blast everything around it.  SPIKY: never grab it! Pop a neighbor to clear it.  GEM ROCK: can’t be grabbed; pop a neighbor for a gem shower.',art:'special'},
@@ -567,7 +585,7 @@ function drawHow(){const s=SB();menuBtns=[];const P=HOW[howPage];button('hx',s.r
  reg('hp',s.l+8,s.t+6,140,40);outlined((howPage+1)+' / '+HOW.length,s.l+40,s.t+26,16,'#fff','#24103a',4);
  let px=28;while(textW(P.t,px)>s.r-s.l-24&&px>16)px-=2;reg('ht',s.l+12,s.t+54,s.r-s.l-24,px+10);outlined(P.t,(s.l+s.r)/2,s.t+59+px/2,px,'#ffe14d','#3a1050',6);
  const ay=s.t+70+px,ah=Math.min(270,(s.b-ay)*.42);reg('ha',s.l+12,ay,s.r-s.l-24,ah);X.fillStyle='rgba(20,10,40,.45)';rr(s.l+12,ay,s.r-s.l-24,ah,18);X.fill();
- const cx=(s.l+s.r)/2,cy=ay+ah/2,R=Math.min(34,ah*.17);const C=(k,sz,c,f,x,y,n)=>drawCritter(k==='c'?{k,s:sz,c,f}:{k,n:n||0},x,y,k==='c'?R*[.62,.8,1][sz]:R*.85,fakeV(x,x));const arrow=(x1,x2,y)=>{X.strokeStyle='#fff';X.lineWidth=3;X.beginPath();X.moveTo(x1,y);X.lineTo(x2,y);X.lineTo(x2-7,y-6);X.moveTo(x2,y);X.lineTo(x2-7,y+6);X.stroke()};
+ const cx=(s.l+s.r)/2,cy=ay+ah/2,R=Math.min(34,ah*.17);const C=(k,sz,c,f,x,y,n)=>drawCritter(k==='c'?{k,s:sz,c,f}:{k,n:n||0},x,y,k==='c'?R*[.5,.76,1][sz]:R*.85,fakeV(x,x));const arrow=(x1,x2,y)=>{X.strokeStyle='#fff';X.lineWidth=3;X.beginPath();X.moveTo(x1,y);X.lineTo(x2,y);X.lineTo(x2-7,y-6);X.moveTo(x2,y);X.lineTo(x2-7,y+6);X.stroke()};
  GE=GE||{base:52};
  if(P.art==='kelly'){const kx=cx+Math.sin(RT*1.5)*60;drawKelly(kx,ay+ah-12,clamp(ah/180,.7,1.05));C('c',1,1,0,cx,ay+R+10);X.strokeStyle='rgba(255,255,255,.6)';X.lineWidth=2;X.setLineDash([5,5]);X.beginPath();X.moveTo(cx-90,ay+ah-30);X.lineTo(cx+90,ay+ah-30);X.stroke();X.setLineDash([])}
  else if(P.art==='sizes'){C('c',0,2,0,cx-100,cy);arrow(cx-78,cx-38,cy);C('c',1,2,0,cx,cy);arrow(cx+30,cx+66,cy);C('c',2,2,0,cx+100,cy);X.font=FONT(12,800);X.fillStyle='#fff';X.textAlign='center';['Nibbler','Muncher','Chomper'].forEach((n,i)=>X.fillText(n,cx-100+i*100,cy+R*1.5+8))}
@@ -631,7 +649,7 @@ if('serviceWorker' in navigator&&location.protocol==='https:')addEventListener('
 #dockHint{position:fixed;z-index:61;display:none;box-sizing:border-box;background:rgba(10,10,20,.92);color:#fff;border:2px solid #fff;border-radius:12px;font:13px/1.3 system-ui,-apple-system,sans-serif;padding:7px 36px 7px 10px;top:0;left:0}#dockHint.inl{position:relative;margin:4px auto;max-width:320px}
 #dockHintX{position:absolute;right:3px;top:50%;margin-top:-15px;width:30px;height:30px;border-radius:15px;border:0;background:#fff;color:#000;font:bold 15px sans-serif;padding:0;cursor:pointer}
 #shareToast{position:fixed;z-index:62;display:none;box-sizing:border-box;height:34px;border-radius:17px;border:2px solid #fff;background:#1f9d55;color:#fff;font:bold 13px/30px system-ui,sans-serif;text-align:center;white-space:nowrap;pointer-events:none;overflow:hidden}
-#inst,#ios,#ioshint{display:none!important}#dkProbe{position:fixed;visibility:hidden;pointer-events:none;padding:env(safe-area-inset-top) env(safe-area-inset-right) env(safe-area-inset-bottom) env(safe-area-inset-left)}.dk.smp{position:relative;opacity:.62;text-decoration:line-through;text-decoration-thickness:2px;text-decoration-color:#ff5050}.dk.smp:after{content:'';position:absolute;left:5px;right:5px;top:50%;height:3px;margin-top:-1px;background:#ff3b3b;border-radius:2px;transform:rotate(-16deg);pointer-events:none}#dockHint.smpc{padding:9px 38px 10px 11px;font-size:14px}#dockHint.smpc b{color:#ffd84a}#smpBuy{display:block;max-width:100%;white-space:nowrap;overflow:hidden;text-overflow:ellipsis;margin:8px 0 0;height:34px;border-radius:17px;border:2px solid #fff;background:#e0439a;color:#fff;font:bold 14px/30px system-ui,-apple-system,sans-serif;padding:0 14px;cursor:pointer;touch-action:manipulation}#smpBuy.off{background:#444;opacity:.85;cursor:default}#smpBack{position:fixed;inset:0;z-index:59;display:none;background:rgba(0,0,0,.55)}</style><div id="dock" role="toolbar" aria-label="Share and install"><button id="shareBtn" class="dk" type="button" aria-label="Share this game">🔗 Share</button><button id="instBtn" class="dk" type="button" aria-label="Install this game as an app">📲 Install</button></div><div id="dockHint" role="note">📲 On iPhone/iPad: tap Share <b>⬆</b> then “Add to Home Screen”.<button id="dockHintX" type="button" aria-label="Dismiss tip">✕</button></div><div id="shareToast" role="status" aria-live="polite">Link copied!</div><div id="dkProbe"></div><div id="smpBack"></div><script>(()=>{const SH={"title": "Kelly Crunch", "text": "Play Kelly Crunch — a free family-friendly 8-bit game from Peter's Arcade!", "url": "https://ploug76.github.io/kelly-crunch/"},ALLOW=[],INLINE=null,SHTXT="🔗 Share",SMP=window.__SAMPLE||null,PAYI="",PRICE="$1.99";const $=i=>document.getElementById(i);
+#inst,#ios,#ioshint{display:none!important}#dkProbe{position:fixed;visibility:hidden;pointer-events:none;padding:env(safe-area-inset-top) env(safe-area-inset-right) env(safe-area-inset-bottom) env(safe-area-inset-left)}.dk.smp{position:relative;opacity:.62;text-decoration:line-through;text-decoration-thickness:2px;text-decoration-color:#ff5050}.dk.smp:after{content:'';position:absolute;left:5px;right:5px;top:50%;height:3px;margin-top:-1px;background:#ff3b3b;border-radius:2px;transform:rotate(-16deg);pointer-events:none}#dockHint.smpc{padding:9px 38px 10px 11px;font-size:14px}#dockHint.smpc b{color:#ffd84a}#smpBuy{display:block;max-width:100%;white-space:nowrap;overflow:hidden;text-overflow:ellipsis;margin:8px 0 0;height:34px;border-radius:17px;border:2px solid #fff;background:#e0439a;color:#fff;font:bold 14px/30px system-ui,-apple-system,sans-serif;padding:0 14px;cursor:pointer;touch-action:manipulation}#smpBuy.off{background:#444;opacity:.85;cursor:default}#smpBack{position:fixed;inset:0;z-index:59;display:none;background:rgba(0,0,0,.55)}</style><div id="dock" role="toolbar" aria-label="Share and install"><button id="shareBtn" class="dk" type="button" aria-label="Share this game">🔗 Share</button><button id="instBtn" class="dk" type="button" aria-label="Install this game as an app">📲 Install</button></div><div id="dockHint" role="note">📲 On iPhone/iPad: tap Share <b>⬆</b> then “Add to Home Screen”.<button id="dockHintX" type="button" aria-label="Dismiss tip">✕</button></div><div id="shareToast" role="status" aria-live="polite">Link copied!</div><div id="dkProbe"></div><div id="smpBack"></div><script>(()=>{const SH={"title": "Alien Crunch", "text": "Play Alien Crunch — a free family-friendly 8-bit game from Peter's Arcade!", "url": "https://ploug76.github.io/kelly-crunch/"},ALLOW=[],INLINE=null,SHTXT="🔗 Share",SMP=window.__SAMPLE||null,PAYI="",PRICE="$1.99";const $=i=>document.getElementById(i);
 if(SMP){SH.url=SH.url+'?sample='+encodeURIComponent(SMP);const h0=$('dockHint');h0.classList.add('smpc');h0.setAttribute('role','dialog');h0.innerHTML='<b>Sample version</b> — install the full game on your phone for '+PRICE+'<button id="smpBuy" type="button"'+(PAYI?'':' class="off" aria-disabled="true"')+'>'+(PAYI?'💳 Buy '+PRICE:'Checkout coming soon')+'</button><button id="dockHintX" type="button" aria-label="Close">✕</button>'}
 const bk=$('smpBack'),dock=$('dock'),sb=$('shareBtn'),ib=$('instBtn'),hint=$('dockHint'),hx=$('dockHintX'),toastEl=$('shareToast'),probe=$('dkProbe');
 if(INLINE){const a=document.querySelector(INLINE);if(a){a.after(dock);dock.after(hint)}dock.classList.add('inl');hint.classList.add('inl')}

diff --git a/sw.js b/sw.js
@@ -1,4 +1,4 @@
-const P='kelly-crunch-',V=P+'v3',OLD=[],FILES=['./','index.html','manifest.json','icon-192.png','icon-512.png'];
+const P='kelly-crunch-',V=P+'v4',OLD=[],FILES=['./','index.html','manifest.json','icon-192.png','icon-512.png'];
 self.addEventListener('install',e=>{e.waitUntil(caches.open(V).then(c=>c.addAll(FILES)));self.skipWaiting()});
 self.addEventListener('activate',e=>{e.waitUntil(caches.keys().then(k=>Promise.all(k.filter(n=>n!=V&&(n.startsWith(P)||OLD.some(o=>n.startsWith(o)))).map(n=>caches.delete(n)))).then(()=>self.clients.claim()))});
 self.addEventListener('fetch',e=>{if(e.request.method!='GET')return;e.respondWith(fetch(e.request).then(r=>{if(r.ok){const cp=r.clone();caches.open(V).then(c=>c.put(e.request,cp))}return r}).catch(()=>caches.open(V).then(c=>c.match(e.request,{ignoreSearch:true}).then(r=>r||(e.request.mode=='navigate'?c.match('./'):undefined)))))});
